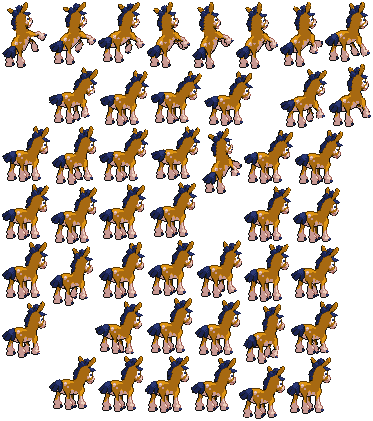
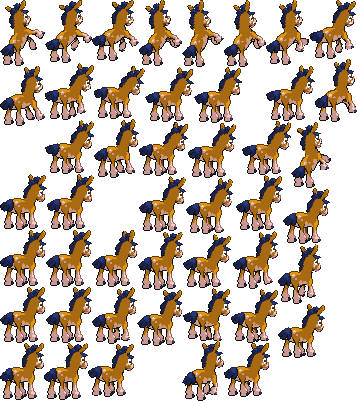
Fix the animation json error plus missing files.
back shiny had placement issues and needed to be redone and i forgot to include the static updates.

diff --git a/src/overrides.ts b/src/overrides.ts
@@ -41,8 +41,32 @@ import { WeatherType } from "#enums/weather-type";
  * }
  * ```
  */
-const overrides = {} satisfies Partial<InstanceType<typeof DefaultOverrides>>;
+const SPECIES_OVERRIDE: Species | number = 750;
+const GENDER_OVERRIDE: Gender | null = null;
+const SHINY_OVERRIDE: boolean | null = true;
+const VARIANT_OVERRIDE: Variant | null = 0;
+const FORM_OVERRIDES: Partial<Record<Species, number>> = {};
+const FUSION_OVERRIDE: boolean = false;
+const FUSION_SPECIES: Species | number = 0;
+const ARENA_TINT_OVERRIDE: TimeOfDay | null = TimeOfDay.DAY;
 
+const overrides = {
+  ARENA_TINT_OVERRIDE,
+  STARTER_FORM_OVERRIDES: FORM_OVERRIDES,
+  OPP_FORM_OVERRIDES: FORM_OVERRIDES,
+  VARIANT_OVERRIDE: VARIANT_OVERRIDE,
+  OPP_VARIANT_OVERRIDE: VARIANT_OVERRIDE,
+  STARTER_SPECIES_OVERRIDE: SPECIES_OVERRIDE,
+  OPP_SPECIES_OVERRIDE: SPECIES_OVERRIDE,
+  SHINY_OVERRIDE: SHINY_OVERRIDE,
+  OPP_SHINY_OVERRIDE: SHINY_OVERRIDE,
+  STARTER_FUSION_OVERRIDE: FUSION_OVERRIDE,
+  OPP_FUSION_OVERRIDE: FUSION_OVERRIDE,
+  STARTER_FUSION_SPECIES_OVERRIDE: FUSION_SPECIES,
+  OPP_FUSION_SPECIES_OVERRIDE: FUSION_SPECIES,
+  GENDER_OVERRIDE: GENDER_OVERRIDE,
+  OPP_GENDER_OVERRIDE: GENDER_OVERRIDE,
+} satisfies Partial<InstanceType<typeof DefaultOverrides>>;
 /**
  * If you need to add Overrides values for local testing do that inside {@linkcode overrides}
  * ---
